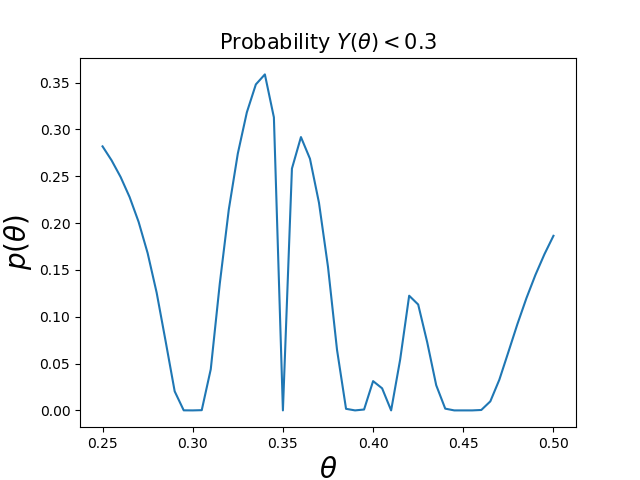
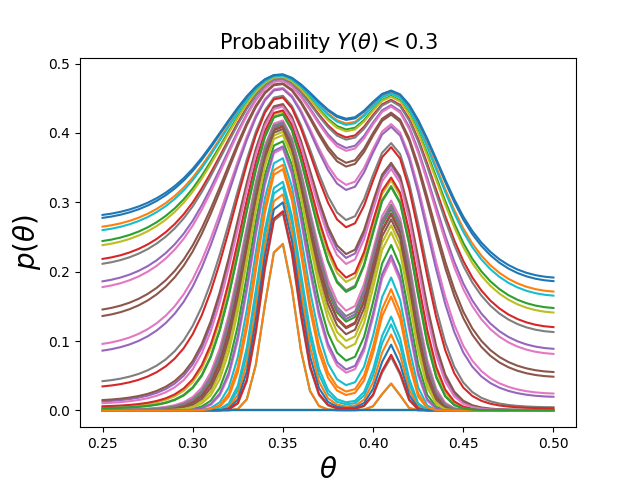
Included Var(y) and simplified code
- Covariance matrices are now based on Var(y)

- All arrays are now reshaped inside 
"gauss_process()" using auxiliary functions. This reduces clutter and increases code readability.

diff --git a/2.py b/2.py
@@ -1,76 +1,70 @@
 import numpy as np
 import matplotlib.pyplot as plt
 from scipy.stats import norm
+from scipy.spatial import distance_matrix as dm
+
+def transpose_1d_arrs(arrs):
+    return [arr.reshape(len(arr), 1) for arr in arrs]
 
 
-def gauss_process(t_a, mu_a, mu_b, t_b, x_b, sigma=0.5**2, phi=15):
-
-    # Difference Matrix
-    I_a = np.ones(t_a.shape)
-    I_b = np.ones(x_b.shape)
-
-    H_a = np.abs(t_a @ I_a.T - I_a @ t_a.T)
-    H_b = np.abs(t_b @ I_b.T - I_b @ t_b.T)
-    H_ab = np.abs(t_a @ I_b.T - I_a @ t_b.T)
-
-    def corr(d):
-        return (1 + phi*d)*np.exp(-phi*d)
-
-    # Build covariance matrix
-    Sigma_a = corr(H_a)
-    Sigma_b = corr(H_b)
-    Sigma_ab = corr(H_ab)
-
-    Sigma_b_inv = np.linalg.inv(Sigma_b)
-
-    E_ab = mu_a + Sigma_ab @ Sigma_b_inv @ (x_b - mu_b)
-    var_ab = Sigma_a - Sigma_ab @ Sigma_b_inv @ Sigma_ab.T
-    return E_ab, var_ab
+def untranspose_1d_arrs(arrs):
+    return [arr[:, 0] for arr in arrs]
 
 
-# Grid
-t_0 = 0.25
-t_1 = 0.50
-E = 0.5
-n = 51
-th = np.linspace(t_0, t_1,  n  )
-th = th[:, np.newaxis]
-E_y = 0.5*np.ones(th.shape)
+def matern_15(d):
+    return (1 + 15*d)*np.exp(-15*d)
 
-# Given data
-y_b =     np.array([ 0.5, 0.32, 0.40, 0.35, 0.60])
-y_b = y_b[:, np.newaxis]
 
-th_b =  np.array([   0.3, 0.35, 0.39, 0.41, 0.45])
-th_b = th_b[:, np.newaxis]
-E_y_b = E*np.ones(y_b.shape)
-E, Var = gauss_process(t_a=th, mu_a=E_y, t_b=th_b, mu_b=E_y_b, x_b=y_b)
-E = E[:,0]
-th = th[:,0]
-Var_diag = np.diagonal(Var)
-E_l = E - Var_diag*1.645
-E_u = E + Var_diag*1.645
-plt.scatter( th_b, y_b, label = "Data")
-plt.plot( th, E, label = "Expected values" )
-plt.fill_between(th, E_l, E_u, color="gray", alpha  = 0.5)
-plt.xlabel(r"$\theta$", size=20)
-plt.ylabel(r'$y(\theta)$', size=20)
-plt.title("Mean vector and 90% Prediction interval", size=15)
-plt.savefig("gp.png")
-plt.grid()
-plt.legend()
-plt.show()
+def gauss_process(mu_A, mu_B, t_A, t_B, y_B, corr=matern_15, Var=0.5**2):
+    mu_A, mu_B, t_A, t_B, y_B = transpose_1d_arrs([mu_A, mu_B, t_A, t_B, y_B])
+    H_A, H_B, H_AB = [dm(t[0], t[1], p=1) for t in [(t_A, t_A), (t_B, t_B), (t_A, t_B)]]
+    Sigma_A, Sigma_B, Sigma_AB = [Var * corr(H) for H in [H_A, H_B, H_AB]]
+    Sigma_B_inv = np.linalg.inv(Sigma_B)
+    mu_AcB = (mu_A + Sigma_AB @ Sigma_B_inv @ (y_B - mu_B))[:, 0]
+    Sigma_AcB = Sigma_A - Sigma_AB @ Sigma_B_inv @ Sigma_AB.T
+    return mu_AcB, Sigma_AcB
 
-p = norm(loc = E, scale = np.sqrt(Var_diag)).cdf(0.3)
 
-plt.plot( th, p, label = "Expected values" )
-plt.xlabel(r"$\theta$", size=20)
-plt.ylabel(r'$p(\theta)$', size=20)
-plt.title("Probability " + r'$Y(\theta) < 0.3 $', size=15)
-plt.savefig("prob_2.png")
-plt.grid()
-plt.legend()
-plt.show()
+def generate_plots(E, t_A, t_B, y_B):
+    mu_A, mu_B = E * np.ones_like(t_A), E * np.ones_like(t_B)
+    mu_AcB, Sigma_AcB = gauss_process(mu_A, mu_B, t_A, t_B, y_B, matern_15)
+    var_A = np.diagonal(Sigma_AcB)
+    mu_AcB_l = mu_AcB - var_A * 1.645
+    mu_AcB_u = mu_AcB + var_A * 1.645
+    fig, (ax0, ax1) = plt.subplots(1, 2)
+    ax0.scatter(t_B, y_B, label="Data")
+    ax0.plot(t_A, mu_AcB, label=r'\mu_{A \mid B}')
+    ax0.fill_between(t_A, mu_AcB_l, mu_AcB_u, color="gray", alpha=0.5)
+    ax0.set_xlabel(r"$\theta$", size=20)
+    ax0.set_ylabel(r'$y(\theta)$', size=20)
+    ax0.set_title("Mean vector and 90% Prediction interval", size=15)
+    #ax0.savefig("gp.png")
+    ax0.grid()
+    ax0.legend()
+
+    p = norm(loc=mu_AcB, scale=np.sqrt(var_A)).cdf(0.3)
+
+    ax1.plot(t_A, p, label="Expected values")
+    ax1.set_xlabel(r"$\theta$", size=20)
+    ax1.set_ylabel(r'$p(\theta)$', size=20)
+    ax1.set_title("Probability " + r'$Y(\theta) < 0.3 $', size=15)
+    #ax1.savefig("prob_2.png")
+    ax1.grid()
+    ax1.legend()
+    plt.show()
+
+# 5 evaluation points
+t_0, t_1, E, n = 0.25, 0.50, 0.5, 51
+t_A = np.linspace(t_0, t_1, n)
+t_B = np.array([0.3, 0.35, 0.39, 0.41, 0.45])
+y_B = np.array([0.5, 0.32, 0.40, 0.35, 0.60])
+generate_plots(E, t_A, t_B, y_B)
+
+# 6 evaluation points
+t_A = np.linspace(t_0, t_1, n).reshape(n, 1)
+t_B = np.array([0.3, 0.33, 0.35, 0.39, 0.41, 0.45]).reshape(6, 1)
+y_B = np.array([0.5, 0.4, 0.32, 0.40, 0.35, 0.60]).reshape(6, 1)
+generate_plots(E, t_A, t_B, y_B)
 
 
 
